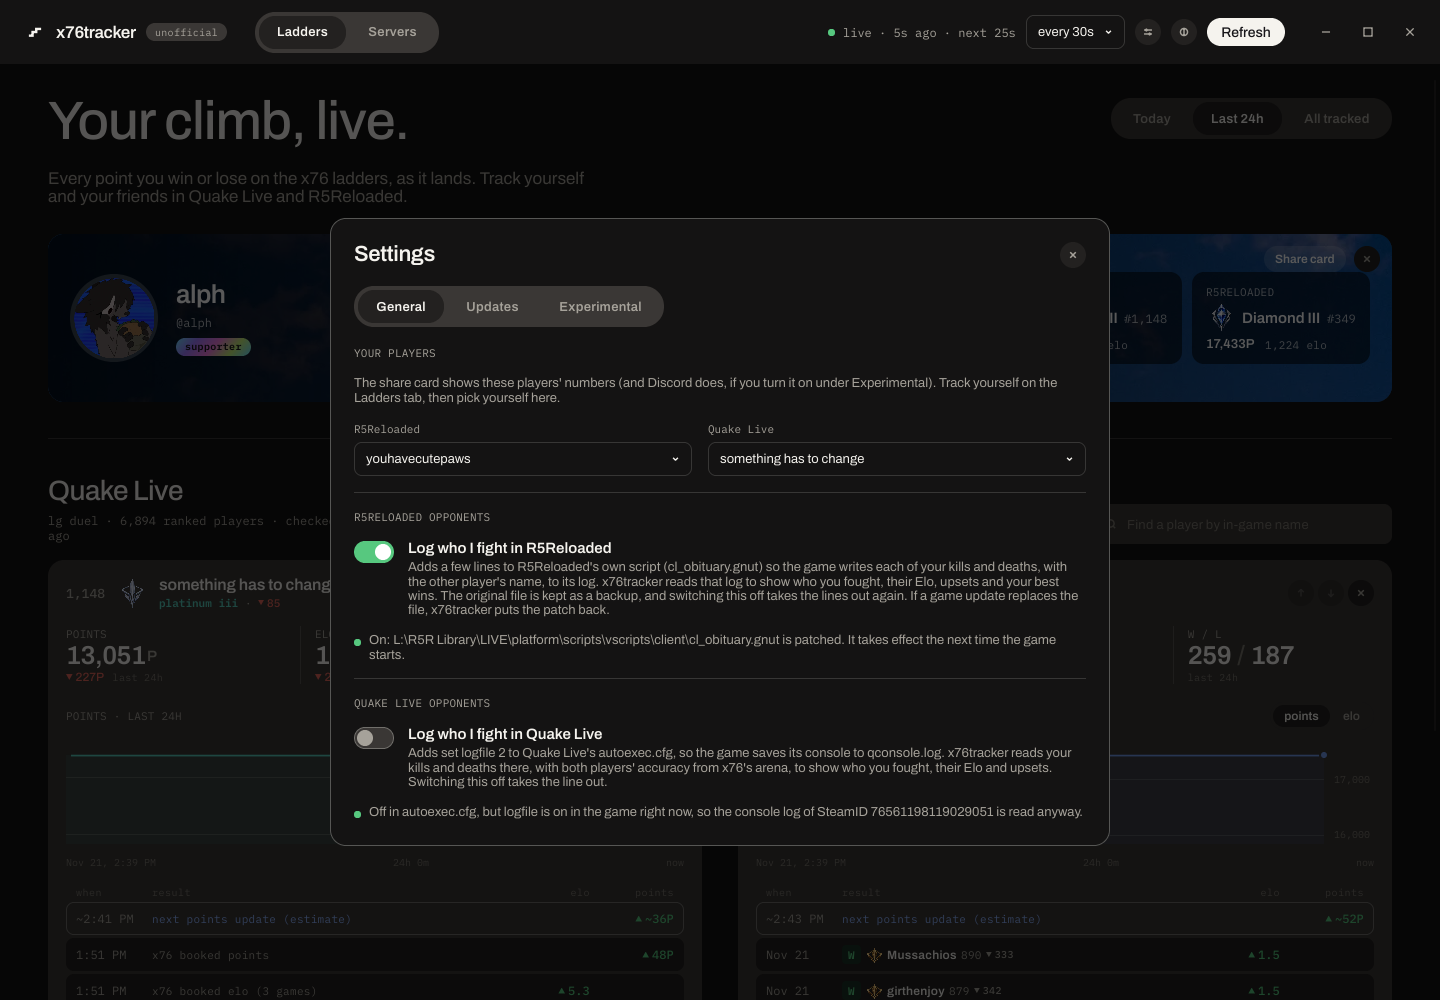
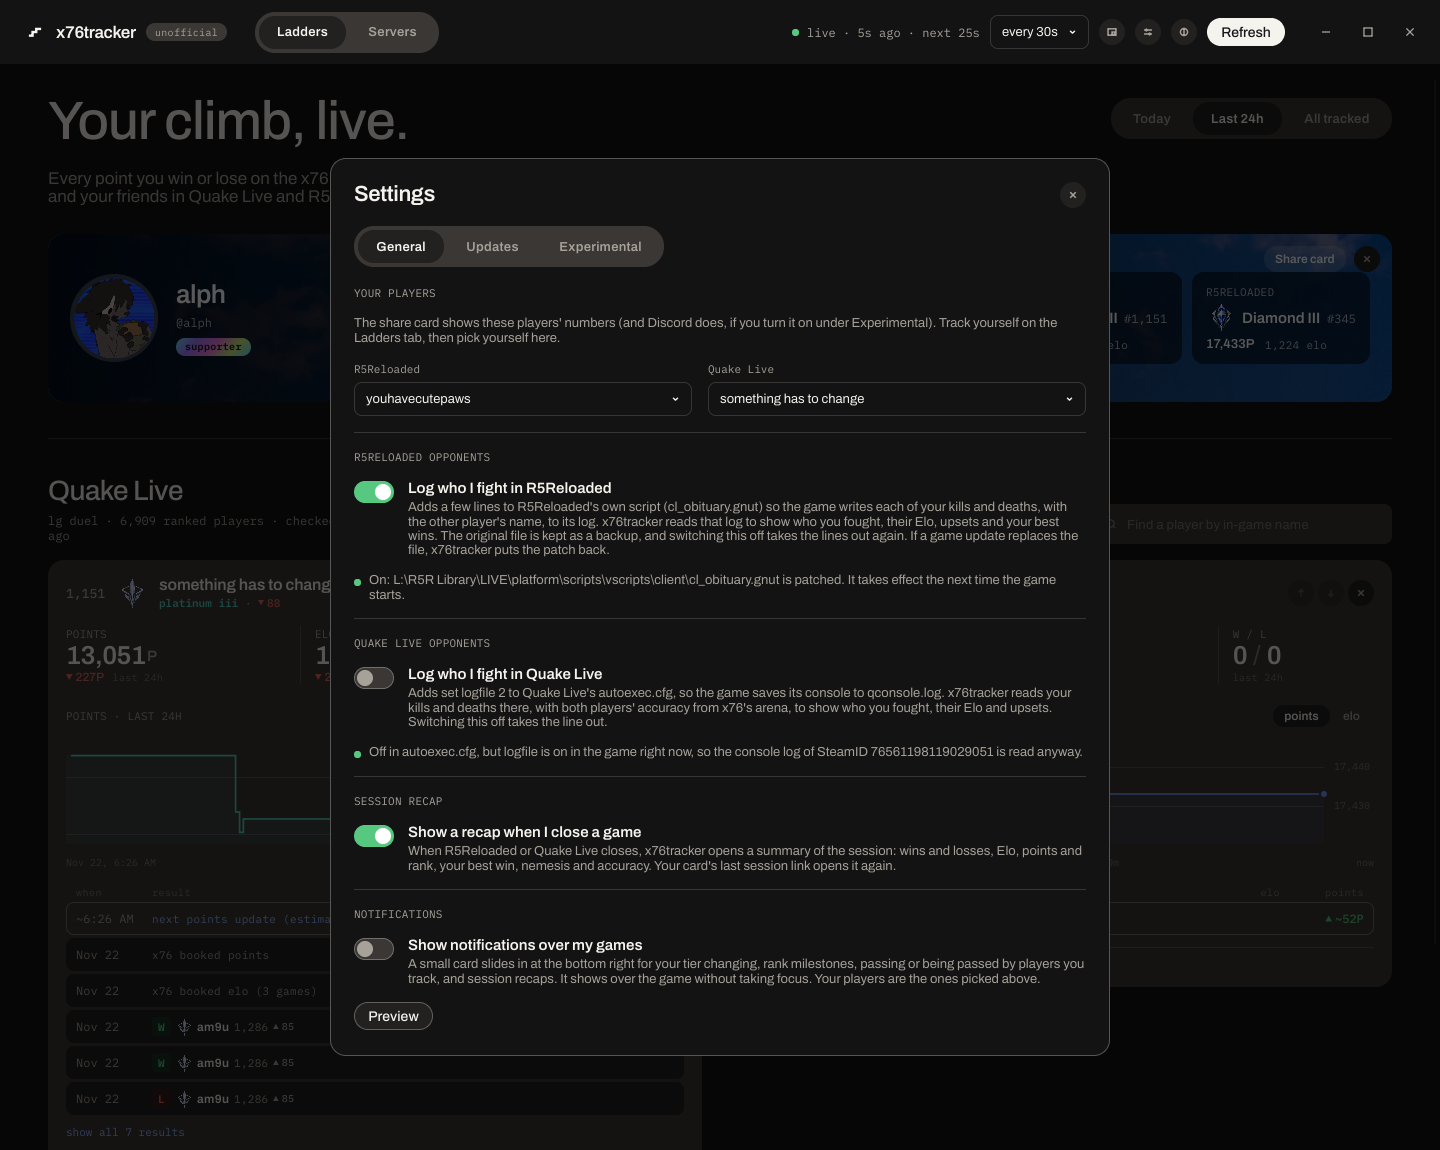
2.3.0: rivals, session recap, notifications and compact mode join the release
- Changelog 2.3.0: rivals, nemesis and favourite victim, session recap,
  notifications and compact mode, each with a picture
- README: the four features under "What you get"; new docs options
- Head-to-head and recap tiles share their row evenly, small print on two lines
- Docs builds: --overlay toast|mini [--note ...] renders a notification or
  compact mode on its own (compact mode is measured after it's laid out)
- README screenshots retaken; the General settings shot is taller so the
  recap and notification switches fit

diff --git a/src/main.rs b/src/main.rs
@@ -4,9 +4,11 @@
 //!   x76tracker.exe                            normal start
 //!   x76tracker.exe --data-dir D:\x76          keep history somewhere else
 //!   x76tracker.exe --screenshot out.png [--size 1440x1000] [--light|--dark] [--hover x,y] [--offline]
-//!                  [--tab servers] [--settings general|widget|updates] [--preview-update 2.3.0]
+//!                  [--tab servers] [--settings general|experimental|updates] [--preview-update 2.3.0]
 //!                  [--whats-new N] [--record FRAMES [--fps 20] [--crop x,y,w,h] [--click-at F] [--hover-at F]]
 //!                                             (--record writes an animated PNG)
+//!                  [--overlay toast|mini [--note "title|body|tier|dir"]]
+//!                                             (a notification or compact mode on its own)
 //!   x76tracker.exe --card out.png             the share card alone, as a PNG
 //!                                             render the window to a PNG without showing it
 #![windows_subsystem = "windows"]
@@ -1655,6 +1657,82 @@ mod screenshot {
         pub record: Option<Record>,
         /// pixels per point (2 = twice the resolution; size, clicks and crops stay in points)
         pub scale: f32,
+        /// draw a notification ("toast") or compact mode ("mini") instead of the main window
+        pub overlay: Option<String>,
+        /// the notification to draw: "title|body|tier|dir" (dir 1 good news, -1 bad, 0 neither)
+        pub note: Option<String>,
+    }
+
+    /// A notification or compact mode on its own, at its own size, as a PNG.
+    fn overlay_shot(window: &MinimalSoftwareWindow, shared: &Shared, kind: &str, o: &Options) -> Result<(), Box<dyn std::error::Error>> {
+        let dark = o.theme.unwrap_or(true);
+        let cache = shared.lock().data_file.with_file_name("ranks");
+        let icons: Vec<slint::Image> = ranks::load(&cache).into_iter().map(|px| px.map(slint::Image::from_rgba8).unwrap_or_default()).collect();
+        let icons = slint::ModelRc::new(slint::VecModel::from(icons));
+        let scale = o.scale.clamp(0.5, 4.0);
+        let toast;
+        let mut mini: Option<Mini> = None;
+        let (win, size): (&slint::Window, (f32, f32)) = match kind {
+            "toast" => {
+                let t = Toast::new()?;
+                t.global::<Theme>().set_dark(dark);
+                t.global::<RankIcons>().set_icons(icons);
+                t.global::<RankIcons>().set_ready(true);
+                let spec = o.note.clone().unwrap_or_else(|| "Notifications are on|This is how they look over a game.|Diamond III|1".into());
+                let mut f = spec.split('|');
+                t.set_heading(f.next().unwrap_or_default().into());
+                t.set_body(f.next().unwrap_or_default().into());
+                let tier = f.next().unwrap_or_default();
+                t.set_tier_key(if tier.is_empty() { -1 } else { view::tier_key(tier) });
+                t.set_dir(f.next().and_then(|d| d.trim().parse().ok()).unwrap_or(0));
+                toast = t;
+                (toast.window(), (360.0, 76.0))
+            }
+            "mini" => {
+                let m = Mini::new()?;
+                m.global::<Theme>().set_dark(dark);
+                m.global::<RankIcons>().set_icons(icons);
+                m.global::<RankIcons>().set_ready(true);
+                m.set_rows(slint::ModelRc::new(slint::VecModel::from(view::mini_rows(&shared.lock()))));
+                mini = Some(m);
+                // its height is known once it has been laid out (rows and lines fill in when drawn)
+                (mini.as_ref().unwrap().window(), (330.0, 0.0))
+            }
+            other => return Err(format!("--overlay takes toast or mini, not {other}").into()),
+        };
+        if scale != 1.0 {
+            win.dispatch_event(WindowEvent::ScaleFactorChanged { scale_factor: scale });
+        }
+        let mut size = size;
+        if size.1 == 0.0 {
+            window.set_size(slint::PhysicalSize::new((size.0 * scale).round() as u32, (900.0 * scale).round() as u32));
+            win.show()?;
+            let mut scratch = vec![PremultipliedRgbaColor::default(); ((size.0 * scale).round() * (900.0 * scale).round()) as usize];
+            advance(100);
+            window.request_redraw();
+            window.draw_if_needed(|r| {
+                r.render(&mut scratch, (size.0 * scale).round() as usize);
+            });
+            size.1 = mini.as_ref().map_or(900.0, |m| m.get_natural_height());
+        }
+        let (w, h) = ((size.0 * scale).round() as u32, (size.1 * scale).round() as u32);
+        window.set_size(slint::PhysicalSize::new(w, h));
+        win.show()?;
+        let mut buf = vec![PremultipliedRgbaColor::default(); (w * h) as usize];
+        for _ in 0..3 {
+            advance(700);
+            window.request_redraw();
+            window.draw_if_needed(|r| {
+                r.render(&mut buf, w as usize);
+            });
+        }
+        let rgba = region(&buf, w, (0, 0, w, h));
+        let file = std::io::BufWriter::new(std::fs::File::create(&o.out)?);
+        let mut enc = png::Encoder::new(file, w, h);
+        enc.set_color(png::ColorType::Rgba);
+        enc.set_depth(png::BitDepth::Eight);
+        enc.write_header()?.write_image_data(&rgba)?;
+        Ok(())
     }
 
     pub fn run(data_file: PathBuf, o: Options) -> Result<(), Box<dyn std::error::Error>> {
@@ -1679,6 +1757,9 @@ mod screenshot {
         shared.check_r5_patch(false);
         shared.scan_ql(&mut qllog::Tail::default());
         shared.check_ql_log();
+        if let Some(kind) = &o.overlay {
+            return overlay_shot(&window, &shared, kind, &o);
+        }
         let saved_handle = shared.lock().setting_str("x76Handle");
         let pics = if o.card {
             // the card only needs the profile and its pictures, not fresh ladders
@@ -1941,6 +2022,8 @@ fn run(args: Vec<String>) -> Result<(), Box<dyn std::error::Error>> {
                     board_at: arg_value(&args, "--board-at").and_then(|v| v.parse().ok()),
                 }),
                 scale: arg_value(&args, "--scale").and_then(|v| v.parse().ok()).unwrap_or(1.0),
+                overlay: arg_value(&args, "--overlay"),
+                note: arg_value(&args, "--note"),
             },
         );
     }
@@ -1967,6 +2050,8 @@ fn run(args: Vec<String>) -> Result<(), Box<dyn std::error::Error>> {
                 whats_new: None,
                 record: None,
                 scale: 2.0,
+                overlay: None,
+                note: None,
             },
         );
     }

diff --git a/src/view.rs b/src/view.rs
@@ -712,7 +712,7 @@ pub fn recap_page(core: &Core, idx: usize) -> Option<RecapPage> {
         tiles.push(RivalTile {
             label: s("POINTS"),
             value: s(signed(d, format!("{}P", thousands((b - a).abs())))),
-            sub: s(format!("{}P → {}P", thousands(a), thousands(b))),
+            sub: s(format!("from {}P\nto {}P", thousands(a), thousands(b))),
             dir: d.signum() as i32,
         });
     }
@@ -721,7 +721,7 @@ pub fn recap_page(core: &Core, idx: usize) -> Option<RecapPage> {
         tiles.push(RivalTile {
             label: s("ELO"),
             value: s(signed(if d.abs() < 0.005 { 0.0 } else { d }, two_decimals(d.abs()))),
-            sub: s(format!("{} → {}", two_decimals(a), two_decimals(b))),
+            sub: s(format!("from {}\nto {}", two_decimals(a), two_decimals(b))),
             dir: if d.abs() < 0.005 { 0 } else { d.signum() as i32 },
         });
     }
@@ -730,7 +730,7 @@ pub fn recap_page(core: &Core, idx: usize) -> Option<RecapPage> {
         tiles.push(RivalTile {
             label: s("RANK"),
             value: s(if up == 0 { "same".to_string() } else { format!("{}{}", if up > 0 { "+" } else { "−" }, thousands(up.abs())) }),
-            sub: s(format!("place{} · #{} → #{}", if up.abs() == 1 { "" } else { "s" }, thousands(a), thousands(b))),
+            sub: s(format!("place{}\n#{} → #{}", if up.abs() == 1 { "" } else { "s" }, thousands(a), thousands(b))),
             dir: up.signum() as i32,
         });
     }
@@ -742,14 +742,14 @@ pub fn recap_page(core: &Core, idx: usize) -> Option<RecapPage> {
         let sub = if theirs.is_empty() {
             format!("{} fights", accs.len())
         } else {
-            format!("opponents {} · {} fights", pct(theirs.iter().sum::<f64>() / theirs.len() as f64), accs.len())
+            format!("opponents {}\n{} fights", pct(theirs.iter().sum::<f64>() / theirs.len() as f64), accs.len())
         };
         tiles.push(RivalTile { label: s("ACCURACY"), value: s(pct(mine)), sub: s(sub), dir: 0 });
     } else if wins + losses > 0 {
         tiles.push(RivalTile {
             label: s("WIN RATE"),
             value: s(format!("{:.0}%", wins as f64 * 100.0 / (wins + losses) as f64)),
-            sub: s(format!("{wins} of {} fights", wins + losses)),
+            sub: s(format!("{wins} of {}\nfights", wins + losses)),
             dir: 0,
         });
     }
@@ -914,7 +914,7 @@ pub fn rival_page(core: &Core, key: &str, opponent: &str) -> Option<RivalPage> {
     let mut tiles = vec![RivalTile {
         label: s("RECORD"),
         value: s(format!("{wins}–{losses}")),
-        sub: s(format!("{:.0}% won · {} fight{}", wins as f64 * 100.0 / n as f64, n, if n == 1 { "" } else { "s" })),
+        sub: s(format!("{:.0}% won\n{} fight{}", wins as f64 * 100.0 / n as f64, n, if n == 1 { "" } else { "s" })),
         dir: (wins - losses).signum() as i32,
     }];
     if let Some(e) = their_elo {
@@ -925,7 +925,7 @@ pub fn rival_page(core: &Core, key: &str, opponent: &str) -> Option<RivalPage> {
             None => String::new(),
         };
         if let Some(m) = my_elo {
-            sub = format!("{sub} · {:.0}% on paper", win_chance(m, e) * 100.0);
+            sub = format!("{sub}\n{:.0}% on paper", win_chance(m, e) * 100.0);
         }
         tiles.push(RivalTile { label: s("ELO NOW"), value: s(thousands(e.round() as i64)), sub: s(sub), dir: 0 });
     }
@@ -936,7 +936,7 @@ pub fn rival_page(core: &Core, key: &str, opponent: &str) -> Option<RivalPage> {
         tiles.push(RivalTile {
             label: s("ACCURACY"),
             value: s(format!("{} vs {}", pct(me), pct(them))),
-            sub: s(format!("you vs them, {} fight{}", accs.len(), if accs.len() == 1 { "" } else { "s" })),
+            sub: s(format!("you vs them\n{} fight{}", accs.len(), if accs.len() == 1 { "" } else { "s" })),
             dir: if (me - them).abs() < 0.5 { 0 } else if me > them { 1 } else { -1 },
         });
     } else {
@@ -944,7 +944,7 @@ pub fn rival_page(core: &Core, key: &str, opponent: &str) -> Option<RivalPage> {
         tiles.push(RivalTile { label: s("UPSETS"), value: s(format!("{uw} · {ul}")), sub: s("won · lost"), dir: 0 });
     }
     let first = fights.last().unwrap();
-    tiles.push(RivalTile { label: s("FIRST MET"), value: s(short_when(first.t)), sub: s(format!("last {}", clock_day(newest.t))), dir: 0 });
+    tiles.push(RivalTile { label: s("FIRST MET"), value: s(short_when(first.t)), sub: s(format!("last met\n{}", clock_day(newest.t))), dir: 0 });
 
     let rows: Vec<RivalFight> = fights
         .iter()

diff --git a/README.md b/README.md
@@ -21,6 +21,10 @@ What you get:
 - **Live updates:** cards light up green or red when something changes.
 - **Servers tab:** live player counts on x76's Quake Live and R5Reloaded servers.
 - **Share card:** your profile and ranks as a PNG for Discord or anywhere else (Share card on your profile, then Save PNG).
+- **Rivals:** your head-to-head with any opponent (click their name), and each period's nemesis and favourite victim on your card. These need the opponents switch below.
+- **Session recap:** when R5Reloaded or Quake Live closes, a summary of the session: wins and losses, tier, points, Elo and rank, your best win, nemesis and accuracy.
+- **Notifications (optional):** a small card that slides in over your game, without taking focus, when your tier changes, you reach a rank milestone or you pass a player you track. They're off until you turn them on in Settings → General.
+- **Compact mode:** a small always-on-top card with your tier, rank, Elo and last fight (the button next to Settings in the title bar).
 
 ![A share card: avatar and banner, name and handle, then each game's rank emblem, tier, rank, points, Elo and last 48 hours](docs/images/share-card.png)
 
@@ -55,7 +59,7 @@ Both Discord features are experimental and off until you turn them on, in **Sett
 - **Rich Presence:** while R5Reloaded or Quake Live is running, your Discord status shows your tier, rank, Elo and your last 48 hours. Discord just has to be open on the same PC; there's no login.
 - **Profile widget:** for people who already have a Discord app with a profile widget (Discord no longer gives widgets to new apps). Under **Discord profile widget**, enter the app's Application ID and paste its bot token. x76tracker reads the widget's layout and fills each field set to *User Data* with a stat you pick (current numbers or the last 48 hours), at most every 5 minutes. In a *Collection* layout each item becomes a card with a picture: your x76 rank emblem, or an emoji that follows your results. In a *Progress* layout, the bar shows how far you are through your tier. The token is stored encrypted for your Windows account (`discord-token.bin`) and only sent to Discord.
 
-![Settings, General tab: whose numbers the share card shows, and the R5Reloaded and Quake Live opponents switches](docs/images/settings-general-dark.png)
+![Settings, General tab: whose numbers the share card shows, the R5Reloaded and Quake Live opponents switches, the session recap and notifications](docs/images/settings-general-dark.png)
 
 | Settings → Experimental | What the widget fills in on Discord |
 |---|---|
@@ -66,12 +70,16 @@ Both Discord features are experimental and off until you turn them on, in **Sett
 ```
 x76tracker.exe --data-dir D:\x76            keep history somewhere else
 x76tracker.exe --screenshot out.png [--size 1440x1000] [--light|--dark] [--hover x,y] [--click x,y] [--offline]
-               [--tab servers] [--settings general|widget|updates] [--preview-update 2.3.0]
+               [--tab servers] [--settings general|experimental|updates] [--preview-update 2.3.0]
                                             draw the window into a PNG without showing it
                                             (--preview-update pretends that version is on GitHub)
 x76tracker.exe --screenshot out.png [--whats-new N] [--detail | --detail-upset] [--detail-game ql]
+               [--rival ql|r5] [--recap]
                [--record FRAMES [--fps 20] [--crop x,y,w,h] [--click-at F] [--hover-at F]]
-                                            open What's new or a result; --record writes an animated PNG
+                                            open What's new, a result, a head-to-head or the last
+                                            session's recap; --record writes an animated PNG
+x76tracker.exe --screenshot out.png --overlay toast|mini [--note "title|body|tier|dir"]
+                                            a notification or compact mode on its own
 x76tracker.exe --card out.png              the share card alone, as a 1280×672 PNG
 ```
 

diff --git a/CHANGELOG.md b/CHANGELOG.md
@@ -12,6 +12,16 @@ Each version's section is shown in the app (What's new) and used as its GitHub r
   ![Quake Live fights on the board, with your accuracy over the last 24 hours](docs/changelog/2.3.0-ql-board@2x.png)
 - **Console log switch:** Settings → General → Log who I fight in Quake Live adds set logfile 2 to Quake Live's autoexec.cfg, so the game saves its console to qconsole.log for x76tracker to read. Switching it off takes the line out again. To start without restarting the game, type \set logfile 2 in its console.
   ![The Quake Live opponents switch in Settings](docs/changelog/2.3.0-ql-settings@2x.png)
+- **Rivals:** click an opponent's name in a result's fights, or in your card's footer, to see your head-to-head with them. It shows your all-time record and their Elo now. You also get both players' accuracy in Quake Live or the upsets in R5Reloaded, when you first met, and every fight between you.
+  ![A head-to-head with one opponent: the all-time record, their Elo, upsets and first meeting, then every fight](docs/changelog/2.3.0-rival@2x.png)
+- **Nemesis and favourite victim:** your card's footer names the opponent who beat you most in the period and the one you beat most, with your record against each. Click either name for your head-to-head with them.
+  ![A card's footer: last session, nemesis and favourite victim with the record against each](docs/changelog/2.3.0-nemesis@2x.png)
+- **Session recap:** x76tracker notices when R5Reloaded or Quake Live starts and closes. When the game closes, it shows a summary of the session: wins and losses, tier change, points, Elo, rank and accuracy. It also names your best win, nemesis, favourite victim, upsets and who you fought most. Step back through older sessions, or open the last one from your card's last session link. You can turn the recap off in Settings → General.
+  ![A session recap: wins and losses, points, Elo and rank before and after, the best win, nemesis and who you fought most](docs/changelog/2.3.0-recap@2x.png)
+- **Notifications:** a small card in x76tracker's own style slides in at the bottom right and leaves by itself a few seconds later. It shows up when your tier changes, when you reach a rank milestone (top 100, top 50 and so on), when you pass a player you track or one passes you, and when a session ends. It shows over your game without taking focus, and clicking it brings up x76tracker. Notifications are off until you turn them on in Settings → General, where Preview shows you one.
+  ![A notification: the Diamond III emblem, "Diamond III, up from Diamond IV · R5Reloaded"](docs/changelog/2.3.0-notification@2x.png)
+- **Compact mode:** the new button in the title bar opens a small card that stays on top of other windows. It shows your players' tier, rank and Elo, the change this session (or over 48 hours), the last fight and your streak. Drag it anywhere and it stays there next time. Double-click it to bring up x76tracker.
+  ![Compact mode: each game's tier emblem, rank, Elo and change, the last fight and the streak](docs/changelog/2.3.0-compact@2x.png)
 
 ### Improved
 
